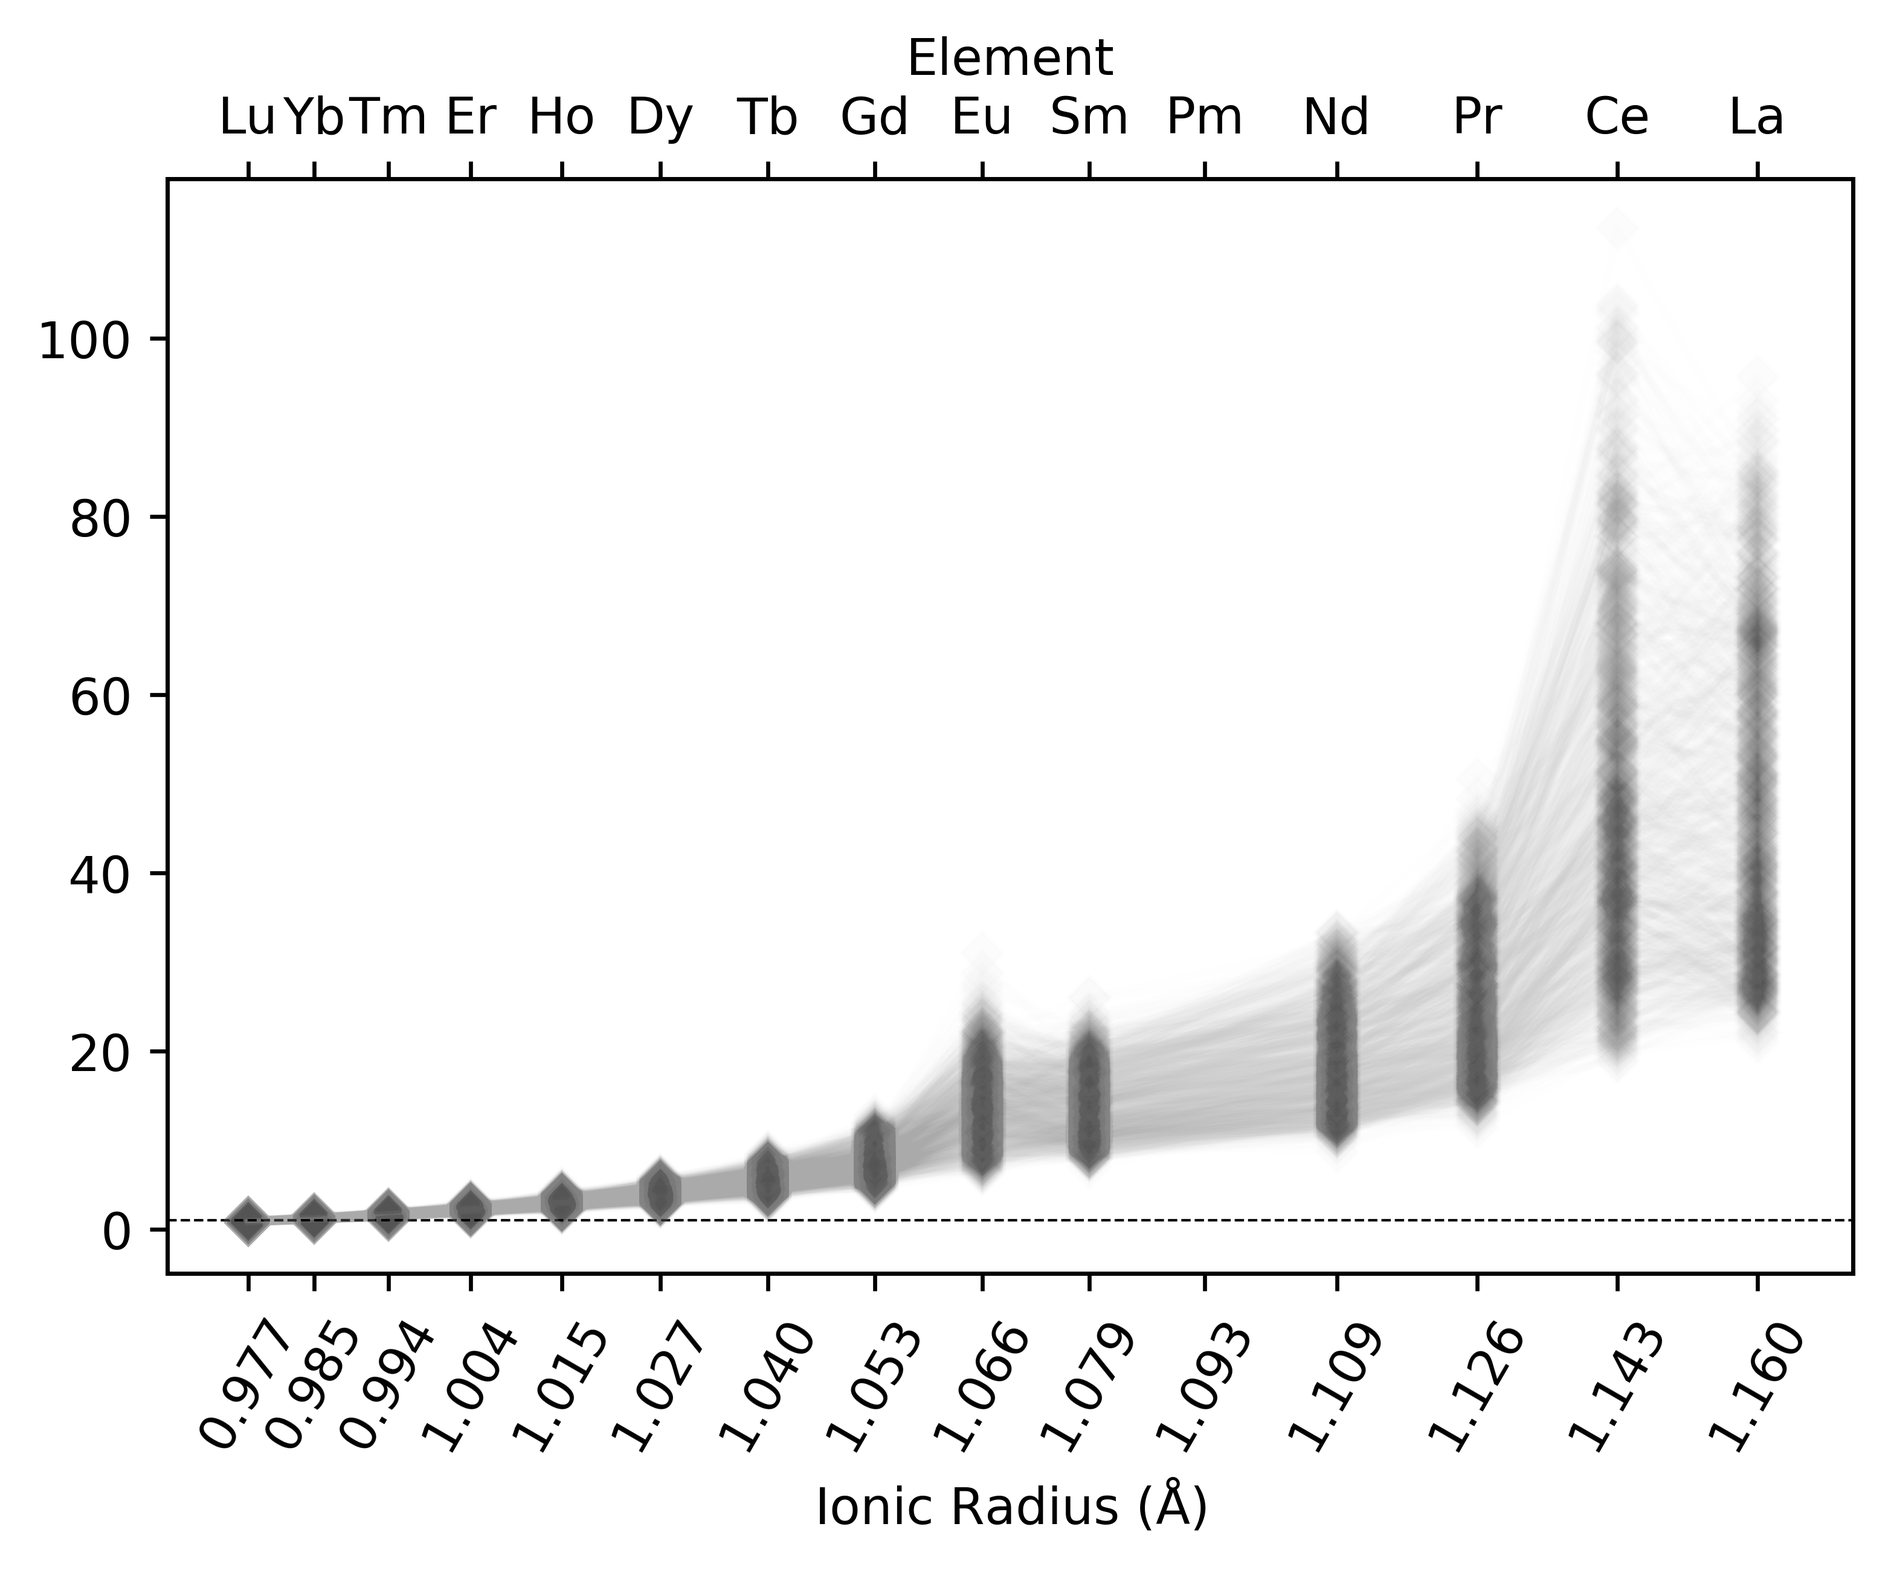
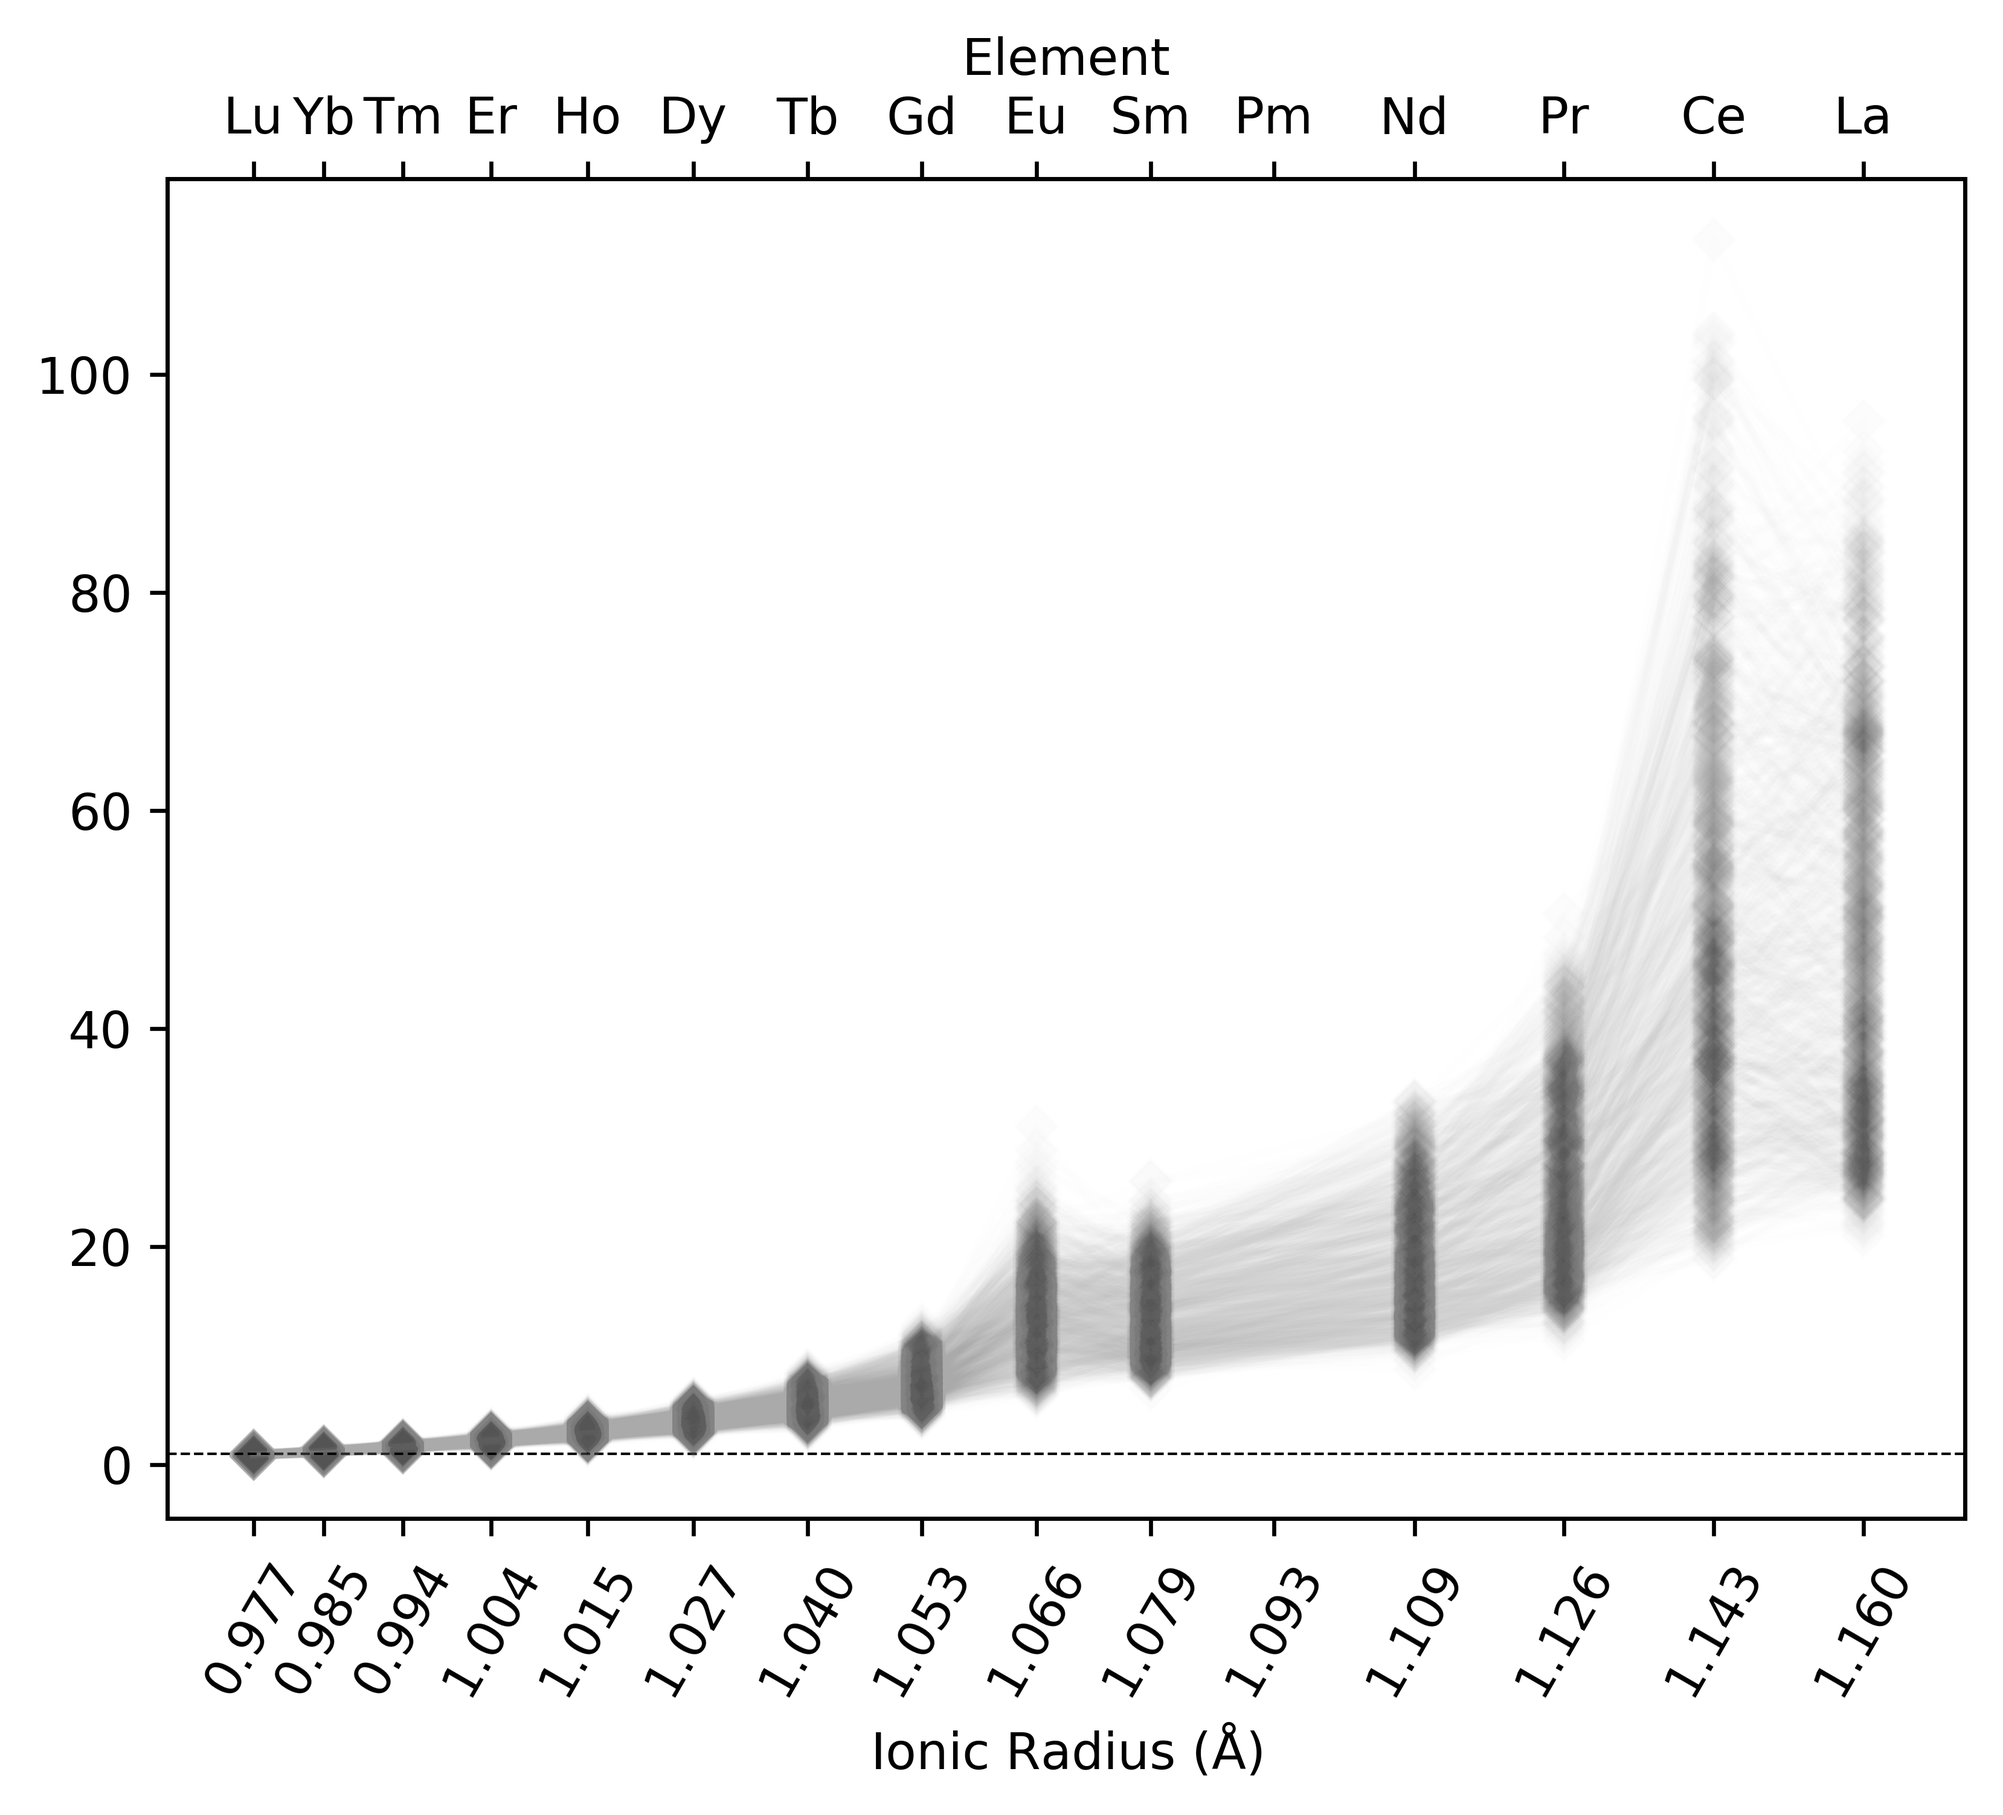
Update Lambdas docs
Update lambdas docs

diff --git a/docs/source/conf.py b/docs/source/conf.py
@@ -204,7 +204,7 @@ intersphinx_mapping = {
     "matplotlib": ("https://matplotlib.org/", None),
     "pathlib": ("https://pathlib.readthedocs.io/en/pep428/", None),
     "sympy": ("https://docs.sympy.org/latest/", None),
-    "sklearn": ("http://scikit-learn.org/stable", None),
+    "sklearn": ("https://scikit-learn.org/stable", None),
     "periodictable": ("https://periodictable.readthedocs.io/en/latest/", None),
     "statsmodels": ("https://www.statsmodels.org/stable", None),
     "pytest": ("https://docs.pytest.org/en/latest/", None),

diff --git a/docs/examples/lambdas/lambdas.py b/docs/examples/lambdas/lambdas.py
@@ -31,6 +31,7 @@ for ix, el in enumerate(data_ree):
 Y = np.exp(lnY)
 
 ax = REE_v_radii()
+ax.set_yscale('log')
 ax.plot(data_radii.T, Y.T, marker="D", alpha=0.01, c="0.5", markerfacecolor="k")
 # %% Plot Data -------------------------------------------------------------------------
 from pyrolite.util.plot import save_figure

diff --git a/docs/source/usage/eg/lambdas/pandaslambdas.rst b/docs/source/usage/eg/lambdas/pandaslambdas.rst
@@ -3,14 +3,14 @@ Pandas Lambdas from Ln(REE/Reference)
 
 .. note:: This page is currently incomplete and a work in progress.
 
-.. literalinclude:: ../../../../examples/pandas_interface/pandas_lnREE.py
+.. literalinclude:: ../../../../examples/lambdas/pandas_lnREE.py
    :language: python
    :end-before: # %% Generate Some Example Data
 
 First we generate some example REE data, and plot this on a
 :func:`pyrolite.plot.REE_v_radii`:
 
-.. literalinclude:: ../../../../examples/pandas_interface/pandas_lnREE.py
+.. literalinclude:: ../../../../examples/lambdas/pandas_lnREE.py
   :language: python
   :start-after: # %% Generate Some Example Data
   :end-before: # %% Plot Data
@@ -22,12 +22,12 @@ First we generate some example REE data, and plot this on a
 The reduction to lambdas using the pandas interface is much simpler than using the
 numpy-based utility functions (see :func:`pyrolite.util.math.lambdas`, `Dimensional Reduction <lambdadimreduction.html>`__):
 
-.. literalinclude:: ../../../../examples/pandas_interface/pandas_lnREE.py
+.. literalinclude:: ../../../../examples/lambdas/pandas_lnREE.py
   :language: python
   :start-after: # %% Reduce to Orthogonal Polynomials
   :end-before: # %% Plot the Results
 
-.. literalinclude:: ../../../../examples/pandas_interface/pandas_lnREE.py
+.. literalinclude:: ../../../../examples/lambdas/pandas_lnREE.py
   :language: python
   :start-after: # %% Plot the Results
   :end-before: # %% End
@@ -41,6 +41,9 @@ O’Neill, H.S.C., 2016. The Smoothness and Shapes of Chondrite-normalized Rare 
 Element Patterns in Basalts. J Petrology 57, 1463–1508.
 `doi: 10.1093/petrology/egw047 <https://doi.org/10.1093/petrology/egw047>`__.
 
-.. seealso:: `Visualising Orthogonal Polynomials <lambdavis.html>`__,
-             `Dimensional Reduction <lambdadimreduction.html>`__,
-             `REE Radii Plot <../plotting/REE_v_radii.html>`__
+.. seealso::
+
+  Examples:
+    `Visualising Orthogonal Polynomials <lambdavis.html>`__,
+    `Dimensional Reduction <lambdadimreduction.html>`__,
+    `REE Radii Plot <../plotting/REE_v_radii.html>`__

diff --git a/docs/source/usage/eg/lambdas/lambdavis.rst b/docs/source/usage/eg/lambdas/lambdavis.rst
@@ -1,21 +1,21 @@
 Visualising Orthogonal Polynomials
 ==================================
 
-.. literalinclude:: ../../../../examples/dimensional_reduction/orthogonal_polynomials.py
+.. literalinclude:: ../../../../examples/lambdas/orthogonal_polynomials.py
    :language: python
    :end-before: # %% Generate Some Example Data
 
-.. literalinclude:: ../../../../examples/dimensional_reduction/orthogonal_polynomials.py
+.. literalinclude:: ../../../../examples/lambdas/orthogonal_polynomials.py
    :language: python
    :start-after: # %% Generate Some Example Data
    :end-before: # %% Reduce to Orthogonal Polynomials
 
-.. literalinclude:: ../../../../examples/dimensional_reduction/orthogonal_polynomials.py
+.. literalinclude:: ../../../../examples/lambdas/orthogonal_polynomials.py
    :language: python
    :start-after: # %% Reduce to Orthogonal Polynomials
    :end-before: # %% Plot the Results
 
-.. literalinclude:: ../../../../examples/dimensional_reduction/orthogonal_polynomials.py
+.. literalinclude:: ../../../../examples/lambdas/orthogonal_polynomials.py
   :language: python
   :start-after: # %% Plot the Results
   :end-before: # %% End
@@ -29,6 +29,9 @@ O’Neill, H.S.C., 2016. The Smoothness and Shapes of Chondrite-normalized Rare 
 Element Patterns in Basalts. J Petrology 57, 1463–1508.
 `doi: 10.1093/petrology/egw047 <https://doi.org/10.1093/petrology/egw047>`__.
 
-.. seealso:: `Pandas Lambda Ln(REE) Function <pandaslambdas.html>`__,
-             `Dimensional Reduction <lambdadimreduction.html>`__,
-             `REE Radii Plot <../plotting/REE_v_radii.html>`__
+.. seealso::
+
+  Examples:
+    `Pandas Lambda Ln(REE) Function <pandaslambdas.html>`__,
+    `Dimensional Reduction <lambdadimreduction.html>`__,
+    `REE Radii Plot <../plotting/REE_v_radii.html>`__

diff --git a/docs/source/usage/eg/lambdas/lambdadimreduction.rst b/docs/source/usage/eg/lambdas/lambdadimreduction.rst
@@ -15,11 +15,11 @@ summarised by 3-4 shape parameters).
 Here we generate some example data, reduce these to lambda values, and plot the
 resulting dimensionally reduced data.
 
-.. literalinclude:: ../../../../examples/dimensional_reduction/lambdas.py
+.. literalinclude:: ../../../../examples/lambdas/lambdas.py
   :language: python
   :end-before: # %% Generate Some Example Data
 
-.. literalinclude:: ../../../../examples/dimensional_reduction/lambdas.py
+.. literalinclude:: ../../../../examples/lambdas/lambdas.py
   :language: python
   :start-after: # %% Generate Some Example Data
   :end-before: # %% Plot Data
@@ -28,12 +28,12 @@ resulting dimensionally reduced data.
   :width: 60%
   :align: center
 
-.. literalinclude:: ../../../../examples/dimensional_reduction/lambdas.py
+.. literalinclude:: ../../../../examples/lambdas/lambdas.py
   :language: python
   :start-after: # %% Reduce to Orthogonal Polynomials
   :end-before: # %% Plot the Results
 
-.. literalinclude:: ../../../../examples/dimensional_reduction/lambdas.py
+.. literalinclude:: ../../../../examples/lambdas/lambdas.py
   :language: python
   :start-after: # %% Plot the Results
   :end-before: # %% End
@@ -46,5 +46,8 @@ O’Neill, H.S.C., 2016. The Smoothness and Shapes of Chondrite-normalized Rare 
 Element Patterns in Basalts. J Petrology 57, 1463–1508.
 `doi: 10.1093/petrology/egw047 <https://doi.org/10.1093/petrology/egw047>`__.
 
-.. seealso:: `Visualising Orthogonal Polynomials <lambdavis.html>`__,
-             `Pandas Lambda Ln(REE) Function <pandaslambdas.html>`__
+.. seealso::
+
+  Examples:
+    `Visualising Orthogonal Polynomials <lambdavis.html>`__,
+    `Pandas Lambda Ln(REE) Function <pandaslambdas.html>`__
